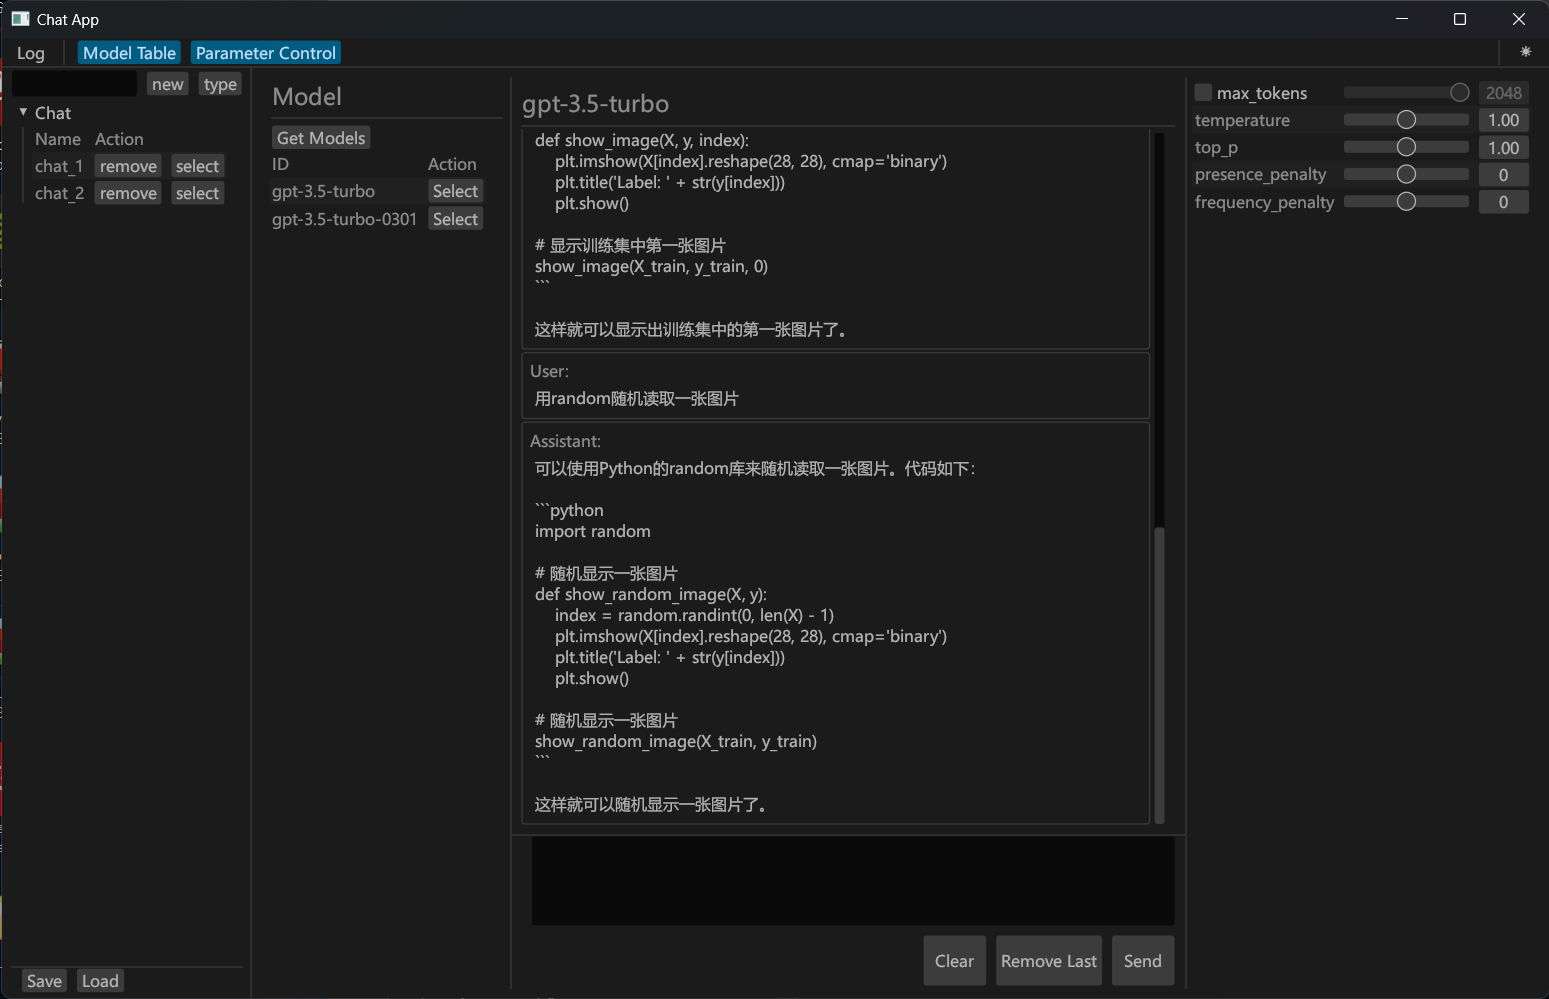
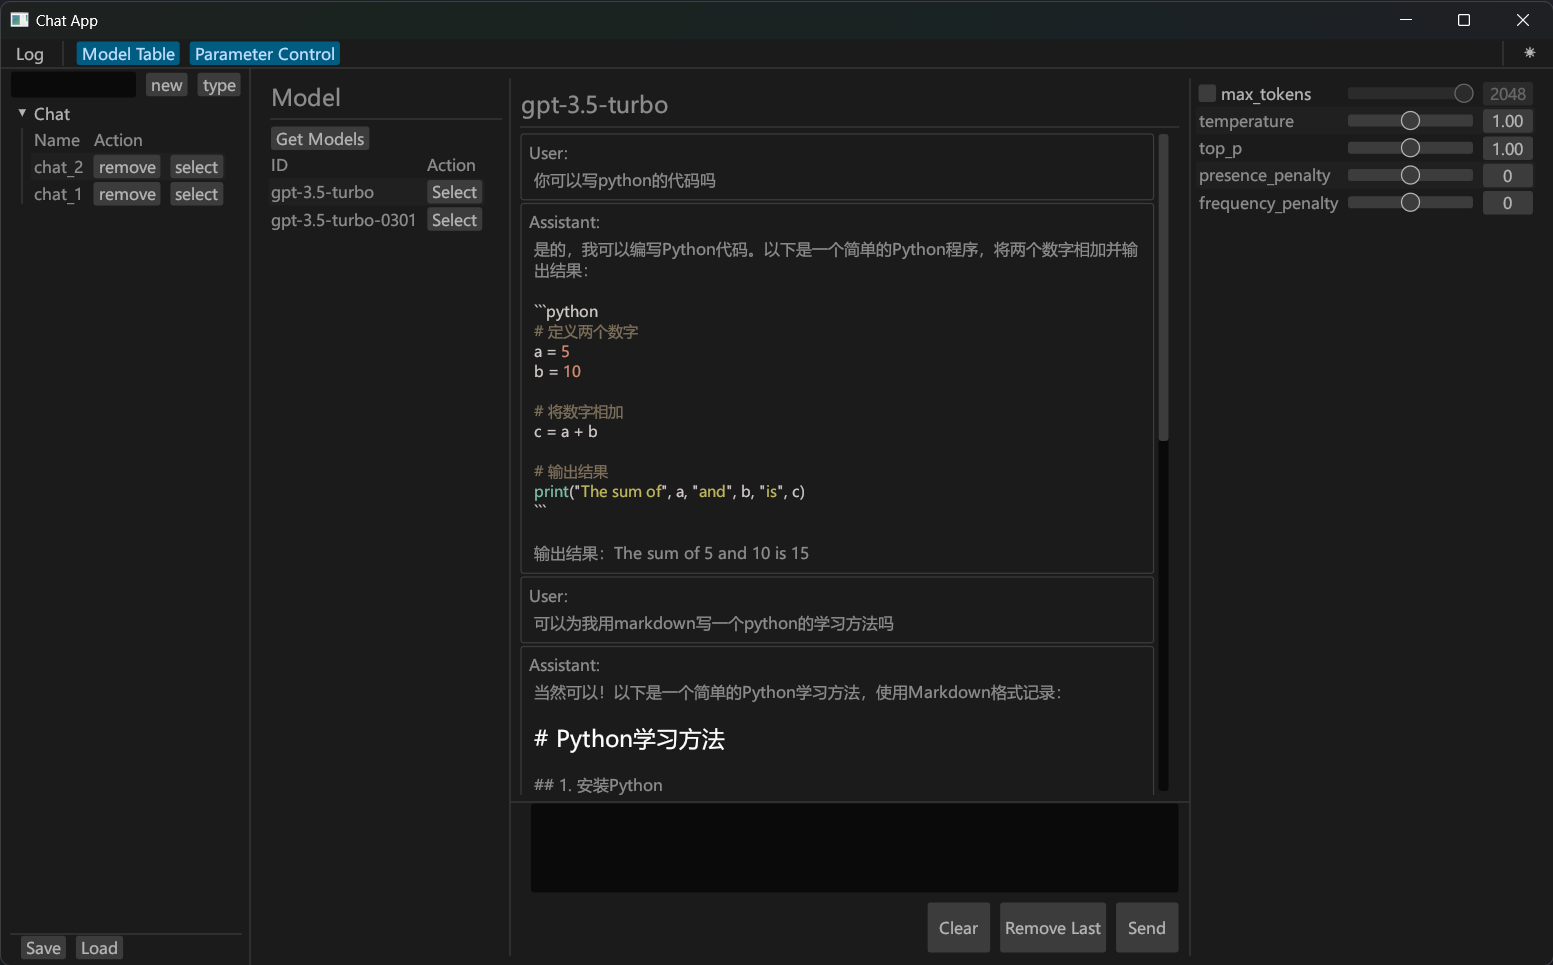
update README.md

diff --git a/README.md b/README.md
@@ -7,12 +7,13 @@ ChatGPT-rs is a lightweight ChatGPT client with a graphical user interface, writ
 ChatGPT-rs provides the following features:
 
 - :computer: **User-friendly GUI:** ChatGPT-rs has an intuitive graphical user interface that makes it easy to use.
-- :floppy_disk: **Lightweight:** ChatGPT-rs is a small application with a download size of approximately 6MB on Windows.
+- :floppy_disk: **Lightweight:** ChatGPT-rs is a small application with a download size of approximately 6MB.
 - :thumbsup: **Easy to use:** ChatGPT-rs can be used as soon as it is downloaded without the need for any additional deployment steps.
 - :wrench: **Model parameter tuning:** ChatGPT-rs allows you to fine-tune the GPT model by adjusting the model parameters, allowing for more customized responses.
 - :page_facing_up: **Conversation history:** ChatGPT-rs allows you to save and access conversation history, so you can review past conversations.
+- :memo: **Markdown support:** ChatGPT-rs supports markdown syntax, allowing you to format your messages with ease.
+- :art: **Syntax highlighting:** ChatGPT-rs includes syntax highlighting for programming languages, making it easy to share code snippets in your conversation.
 - :iphone: **Compatibility:** ChatGPT-rs is designed to work on multiple platforms, including Windows, Mac, and Linux.
-
 
 ![1](./image/1.png)
 
